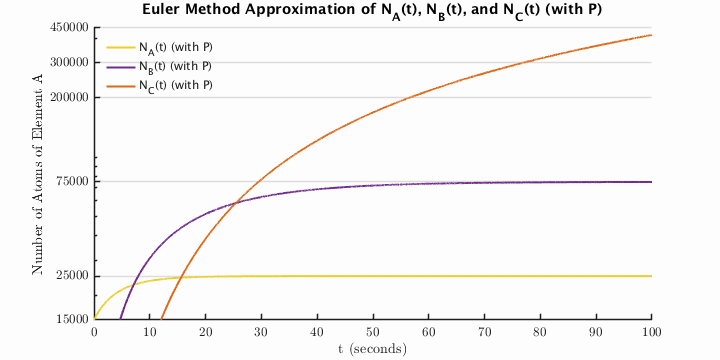
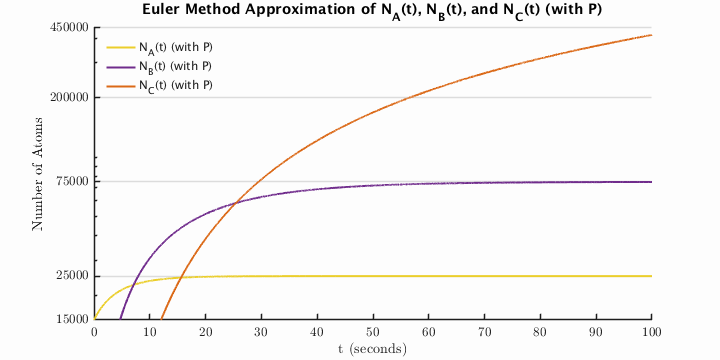
final touches

Changed region(s): [[0.0306, 0.2139, 0.0611, 0.7639], [0.0611, 0.1528, 0.1222, 0.1833]]

diff --git a/decay_chains_3_1_4.m b/decay_chains_3_1_4.m
@@ -11,8 +11,6 @@ y1 = A_0 * exp(-k_A * t); % N_A(t)
 y2 = ((A_0 * k_A) / (k_B - k_A)) * (exp(-k_A * t) - exp(-k_B * t)); % N_B(t)
 y3 = (A_0 / (k_B - k_A)) * (k_A * exp(-k_B * t) - k_B * exp(-k_A * t)) + A_0; % N_C(t)
 
-
-
 % Colors for the lines that will be plotted
 colors = [235, 206, 43;
           112, 44, 140;
@@ -42,7 +40,7 @@ ax.FontSize = 16;
 ax.YLim = [1, 15000];
 ax.XLabel.Interpreter = 'LaTeX';
 ax.YLabel.Interpreter = 'LaTeX';
-ax.YLabel.String = 'Absolute Error (Number of Atoms of Element A)';
+ax.YLabel.String = 'Number of Atoms';
 ax.XLabel.String = 't (seconds)';
 ax.ColorOrder = colors;
 ax.Box = 'off';
@@ -54,9 +52,9 @@ ax.Color = [253, 253, 253]/255;
 ax.YMinorGrid = 'off';
 
 % Adjust this settings to switch from linear to log
-%ax.YScale = 'log';
-ax.YTick = [1, 3000, 6000, 9000, 12000, 15000];
-%ax.YTick = round(logspace(log10(1), log10(15000), 6));
+ax.YScale = 'log';
+%ax.YTick = [1, 3000, 6000, 9000, 12000, 15000];
+ax.YTick = round(logspace(log10(1), log10(15000), 6));
 
 
 
@@ -71,9 +69,8 @@ p = [plot(t, y1); % N_A(t)
 set(p, 'LineWidth', 2);
 
 % Add a legend
-lgd = legend('Absolute Error @h=0.01','Absolute Error @h=0.1','Absolute Error @h=1');
+lgd = legend('N_{A}(t)','N_{B}(t)','N_{C}(t)');
 lgd.Box = 'off';
-lgd.Interpreter = 'LaTeX';
 lgd.TextColor = [29, 29, 29]/255;
 
-t = title("Absolute Error of Euler Method Approximation of N_{A}(t)");
+t = title("N_{A}, N_{B}, and N_{C} Over Time");

diff --git a/absolute_error_2_2_3_b.m b/absolute_error_2_2_3_b.m
@@ -12,11 +12,10 @@ y2 = abs(y1 - ode_euler(N_A_prime, t, A_0)); % h = 0.01
 y3 = abs(y1(1:10:end) - ode_euler(N_A_prime, t(1:10:end), A_0)); % h = 0.1
 y4 = abs(y1(1:100:end) - ode_euler(N_A_prime, t(1:100:end), A_0)); % h = 1
 
-
 % Colors for the lines that will be plotted
-colors = [235, 206, 43;
-          112, 44, 140;
-          219, 105, 23]/255;
+colors = [112, 44, 140;
+          219, 105, 23;
+          150, 205, 230]/255;
 
 % Set the figure properties
 fig = figure(1);
@@ -39,7 +38,7 @@ ax = gca;
 ax.FontName = 'LaTeX';
 ax.TickLabelInterpreter = 'LaTeX';
 ax.FontSize = 16;
-ax.YLim = [1, inf];
+ax.YLim = [1, 605];
 ax.XLabel.Interpreter = 'LaTeX';
 ax.YLabel.Interpreter = 'LaTeX';
 ax.YLabel.String = 'Absolute Error (Number of Atoms of Element A)';
@@ -55,6 +54,7 @@ ax.YMinorGrid = 'off';
 
 % Adjust this settings to switch from linear to log
 ax.YScale = 'log';
+ax.YTick = [1, 6, 56, 603];
 
 
 

diff --git a/euler_method_2_2_3_a.m b/euler_method_2_2_3_a.m
@@ -13,10 +13,10 @@ y3 = ode_euler(N_A_prime, t(1:10:end), A_0); % h = 0.1
 y4 = ode_euler(N_A_prime, t(1:100:end), A_0); % h = 1
 
 % Colors for the lines that will be plotted
-colors = [29, 29, 29;
-          235, 206, 43;
+colors = [235, 206, 43;
           112, 44, 140;
-          219, 105, 23]/255;
+          219, 105, 23;
+          150, 205, 230]/255;
 
 % Set the figure properties
 fig = figure(1);
@@ -54,9 +54,9 @@ ax.Color = [253, 253, 253]/255;
 ax.YMinorGrid = 'off';
 
 % Adjust these settings to switch from linear to log
-%ax.YScale = 'log';
-ax.YTick = [1, 3000, 6000, 9000, 12000, 15000];
-%ax.YTick = round(logspace(log10(1), log10(15000), 6));
+ax.YScale = 'log';
+%ax.YTick = [1, 3000, 6000, 9000, 12000, 15000];
+ax.YTick = round(logspace(log10(1), log10(15000), 6));
 
 
 

diff --git a/decay_chains_with_P_3_1_7.m b/decay_chains_with_P_3_1_7.m
@@ -44,7 +44,7 @@ ax.FontSize = 16;
 ax.YLim = [15000, 450000];
 ax.XLabel.Interpreter = 'LaTeX';
 ax.YLabel.Interpreter = 'LaTeX';
-ax.YLabel.String = 'Number of Atoms of Element A';
+ax.YLabel.String = 'Number of Atoms';
 ax.XLabel.String = 't (seconds)';
 ax.ColorOrder = colors;
 ax.Box = 'off';
@@ -58,7 +58,8 @@ ax.YMinorGrid = 'off';
 % Adjust these settings to switch from linear to log
 ax.YScale = 'log';
 %ax.YTick = [1, 15000, 25000, 50000, 75000];
-ax.YTick = [15000, 25000, 75000, 200000, 300000, 450000];
+%ax.YTickLabel = [1, 15000, 25000, 50000, 75000];
+ax.YTick = [15000, 25000, 75000, 200000, 450000];
 
 
 
